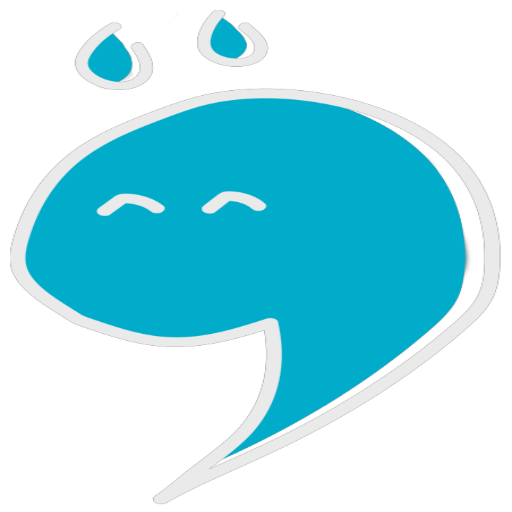
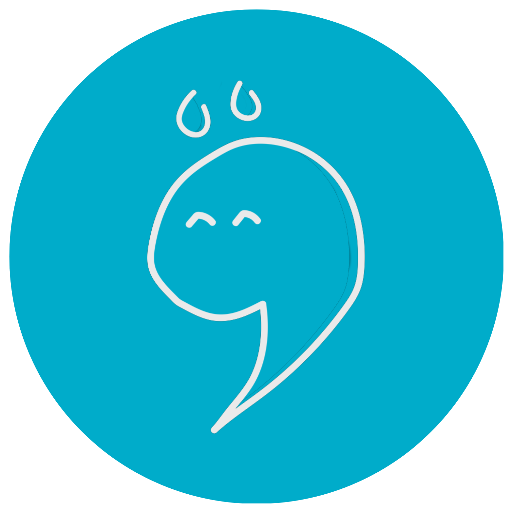
Coming Soon page

diff --git a/my-app/src/pages/ComingSoon.js b/my-app/src/pages/ComingSoon.js
@@ -1,8 +1,51 @@
-const ComingSoon = () => {
+import { Link } from "react-router-dom";
+import icon from "../imgs/comingSoonIcon.png";
+import "./comingSoon.css";
+import FacebookIcon from "@mui/icons-material/Facebook";
+import EmailIcon from "@mui/icons-material/Email";
+import InstagramIcon from "@mui/icons-material/Instagram";
+const ComingSoon = ({ date }) => {
 	return (
 		<div className="ComingSoon">
-			<div className="container">
-				<h1 className="title text-center">Coming Soon</h1>
+			<div className="container d-flex justify-content-between align-items-center flex-column">
+				<h1 className="title mt-0">Coming Soon</h1>
+				<h6 className="subtitle">we will launch this feature soon.</h6>
+				<div className="image my-3">
+					<img src={icon} alt="icon" className="img-fluid" />
+				</div>
+				<h6 className="launchDate my-3">It may be ready by: {date}</h6>
+				<h6 className="subtitle my-3">
+					And follow us on our social media accounts
+				</h6>
+				<ul className="social list-unstyled d-flex justify-content-between mb-0">
+					<li>
+						<Link
+							to={"https://www.facebook.com/rafikiFCAIHu"}
+							className="m-2 facebook text-white-50"
+							target="_blank"
+						>
+							<FacebookIcon fontSize="medium" />
+						</Link>
+					</li>
+					<li>
+						<Link
+							to={"https://www.instagram.com/rafiki_fcai/"}
+							className="m-2 instagram  text-white-50"
+							target="_blank"
+						>
+							<InstagramIcon fontSize="medium" />
+						</Link>
+					</li>
+					<li>
+						<Link
+							to="mailto:rafiki.questions@gmail.com"
+							className="m-2 email text-white-50"
+							target="_blank"
+						>
+							<EmailIcon fontSize="medium" />
+						</Link>
+					</li>
+				</ul>
 			</div>
 		</div>
 	);

diff --git a/my-app/src/App.js b/my-app/src/App.js
@@ -24,6 +24,7 @@ import ApplyJobLayout from "./layouts/ApplyJob-layout";
 import JobDetail from "./components/jobsComponents/JobDetail";
 import GetStartedAr from "./pages/GetStartedAr";
 import Signup from "./pages/Signup";
+import ComingSoon from "./pages/ComingSoon";
 
 function App() {
 	return (
@@ -57,7 +58,10 @@ function App() {
 							<Route path="applyJob" element={<ApplyJobLayout />}>
 								<Route index path=":jobId" element={<JobDetail />} />
 							</Route>
-							<Route path="jobsApplications" element={<h1>Applications</h1>} />
+							<Route
+								path="jobsApplications"
+								element={<ComingSoon date={"01/11/2023"} />}
+							/>
 						</Route>
 						<Route path="/getStarted" element={<GetStarted />} />
 						<Route path="/getStartedAr" element={<GetStartedAr />} />

diff --git a/my-app/src/pages/comingSoon.css b/my-app/src/pages/comingSoon.css
@@ -1,0 +1,37 @@
+.ComingSoon {
+	min-height: 88vh;
+}
+.ComingSoon .container {
+	min-height: inherit;
+}
+.ComingSoon .title {
+	font-size: 55px;
+	color: var(--accent-color);
+	font-weight: 700;
+}
+.ComingSoon .subtitle {
+	font-size: 18px;
+	color: var(--text-color);
+	font-weight: 400;
+}
+.ComingSoon .image {
+	width: 300px;
+}
+.ComingSoon .launchDate {
+	color: var(--primary-color);
+	font-size: 18px;
+	font-weight: 700;
+}
+.ComingSoon li a {
+	transition: all ease-in-out 0.3s;
+	color: var(--primary-color) !important;
+}
+.ComingSoon li:hover .facebook {
+	color: #0866ff !important;
+}
+.ComingSoon li:hover .instagram {
+	color: #e1306c !important;
+}
+.ComingSoon li:hover .email {
+	color: #c71610 !important;
+}
